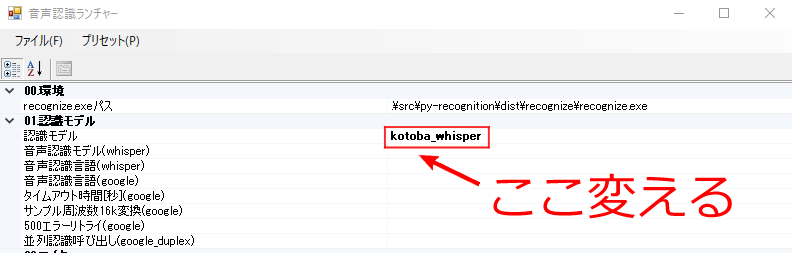
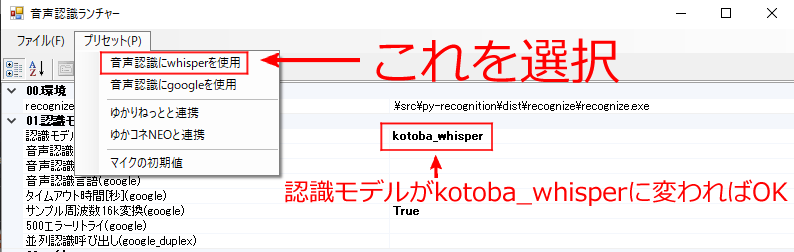
kotoba_whisperの説明を修正

diff --git a/docs/KOTOBA_WHISPER.md b/docs/KOTOBA_WHISPER.md
@@ -6,11 +6,13 @@ recognaizeの認識モデルにkotoba_whisperが追加されました！（2024/
 注意点もあります。  
 ・認識モデルをPCに展開するため、recognaizeの合計容量10Gほどになります。  
 ・GPUのメモリを1～2Gほど使います。  
-・googleとは認識モデルが違う為、今までと同じ発音でも違う言葉として認識される可能性があります。
+・googleとは認識モデルが違う為、今までと同じ発音でも違う言葉として認識される可能性があります。  
+・ノイズも何かしらの言葉として認識され誤認識する可能性が高いです。
 
 ## 使い方
 超簡単です。  
-認識モデルをkotoba_whisperに変えて起動するだけです。  
+音声認識ランチャーのプリセットから「音声認識にwhisperを使用」を選択するだけです。  
+プリセット選択後、認識モデルがkotoba_whisperになってればOKです。    
 その他の設定については既存のgoogleを使っている方を前提としている為、割愛させていただきます。  
 
 ![_](assets/kotobawhisper_01.png)
